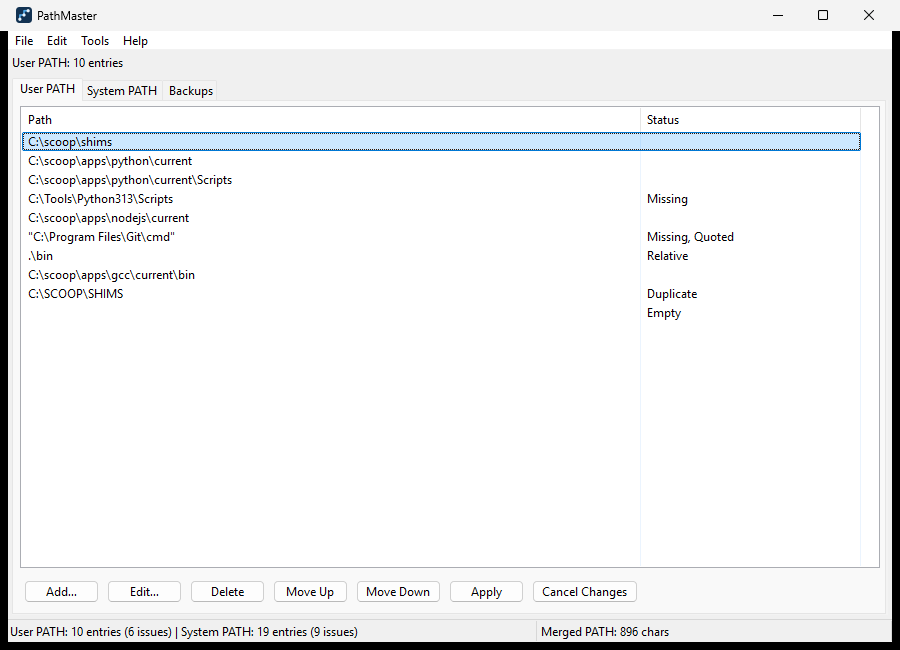
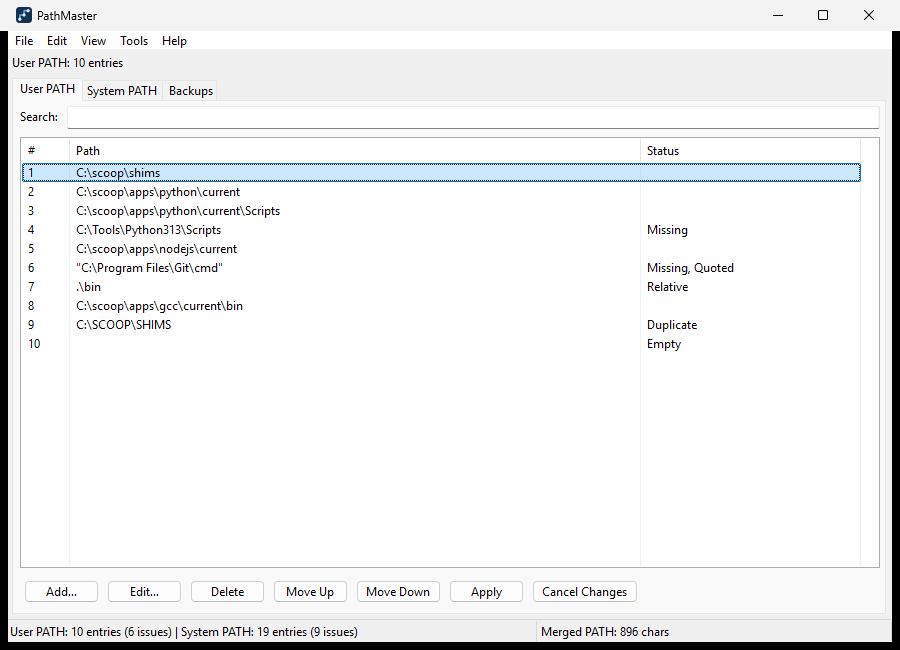
Show the window this release actually has, and say so in the alt text
Checklist step F1 for v0.2.0. The pictures and the two sentences that describe them move together,
which is the whole of why the step is worded the way it is: writing the alt text first would leave
it describing a picture that is not there yet, and regenerating without it leaves two captions
quietly lying about a window the reader cannot see.

Both images regenerate at 900x650. What is new in them is what v0.2.0 added to the main window and
nothing else: a Search field above the list, and the # column ahead of Path and Status, numbered 1
to 10 down a demo PATH that is unchanged. The menu bar gained View, which the captions never
enumerated and so did not have to learn.

The captions had gone false in exactly one clause each -- "a two-column list of Path and Status",
"список із двох колонок". Three columns now, the search field named, and the numbering said out
loud, because a reader who cannot see the picture has no other way to learn that the # runs 1 to 10
against the ten rows the sentence already promises. Everything else in both sentences was still
true of the new picture and is left alone.

E1's guard run by hand, since there is no automated one: fourteen headings at the same levels in
the same order, sixteen table rows each, twenty-five top-level bullets each, six code fences each.
The same counts the README commit recorded, so nothing drifted while these two lines changed.
[…]

Changed region(s): [[0.0, 0.1538, 0.9644, 0.5538], [0.0933, 0.0615, 0.2178, 0.0923], [0.0311, 0.5231, 0.0622, 0.5538]]

diff --git a/README.uk.md b/README.uk.md
@@ -9,7 +9,7 @@
 [![Ліцензія: MIT](https://img.shields.io/badge/licence-MIT-blue)](LICENSE)
 ![Windows 10 і 11, 64-біт](https://img.shields.io/badge/Windows-10%20%7C%2011%20x64-blue)
 
-![Головне вікно PathMaster: рядок повідомлень «PATH користувача: 10 записів», три вкладки (PATH користувача, PATH системи, Резервні копії) і список із двох колонок — «Шлях» і «Стан». У справних записів колонка «Стан» порожня; у позначених — «Відсутній», «Відсутній, У лапках», «Відносний», «Дублікат» і «Порожній». Нижче — кнопки «Додати», «Змінити», «Видалити», «Перемістити вгору», «Перемістити вниз», «Застосувати», «Відхилити зміни», а рядок стану показує кількість записів і проблем для кожного PATH та довжину об'єднаного PATH.](docs/images/main-window-uk.png)
+![Головне вікно PathMaster: рядок повідомлень «PATH користувача: 10 записів», три вкладки (PATH користувача, PATH системи, Резервні копії), порожнє поле пошуку і список із трьох колонок — «#», «Шлях» і «Стан», рядки якого пронумеровані від 1 до 10. У справних записів колонка «Стан» порожня; у позначених — «Відсутній», «Відсутній, У лапках», «Відносний», «Дублікат» і «Порожній». Нижче — кнопки «Додати», «Змінити», «Видалити», «Перемістити вгору», «Перемістити вниз», «Застосувати», «Відхилити зміни», а рядок стану показує кількість записів і проблем для кожного PATH та довжину об'єднаного PATH.](docs/images/main-window-uk.png)
 
 *PATH на цьому знімку — навмисно зіпсований приклад: у ньому є по одній кожній проблемі, про які
 PathMaster повідомляє.*

diff --git a/README.md b/README.md
@@ -9,7 +9,7 @@ Portable editor and diagnostics for the Windows `PATH` environment variable.
 [![Licence: MIT](https://img.shields.io/badge/licence-MIT-blue)](LICENSE)
 ![Windows 10 and 11, 64-bit](https://img.shields.io/badge/Windows-10%20%7C%2011%20x64-blue)
 
-![The PathMaster main window: a message line reading "User PATH: 10 entries", three tabs (User PATH, System PATH, Backups), and a two-column list of Path and Status. Healthy entries leave Status empty; the flagged ones read Missing, "Missing, Quoted", Relative, Duplicate and Empty. A row of buttons follows — Add, Edit, Delete, Move Up, Move Down, Apply, Cancel Changes — and the status bar counts entries and issues for each PATH and gives the merged PATH length.](docs/images/main-window-en.png)
+![The PathMaster main window: a message line reading "User PATH: 10 entries", three tabs (User PATH, System PATH, Backups), an empty search field, and a three-column list of #, Path and Status, its rows numbered 1 to 10. Healthy entries leave Status empty; the flagged ones read Missing, "Missing, Quoted", Relative, Duplicate and Empty. A row of buttons follows — Add, Edit, Delete, Move Up, Move Down, Apply, Cancel Changes — and the status bar counts entries and issues for each PATH and gives the merged PATH length.](docs/images/main-window-en.png)
 
 *The PATH in that picture is a deliberately broken example: it carries one of every problem
 PathMaster reports.*
